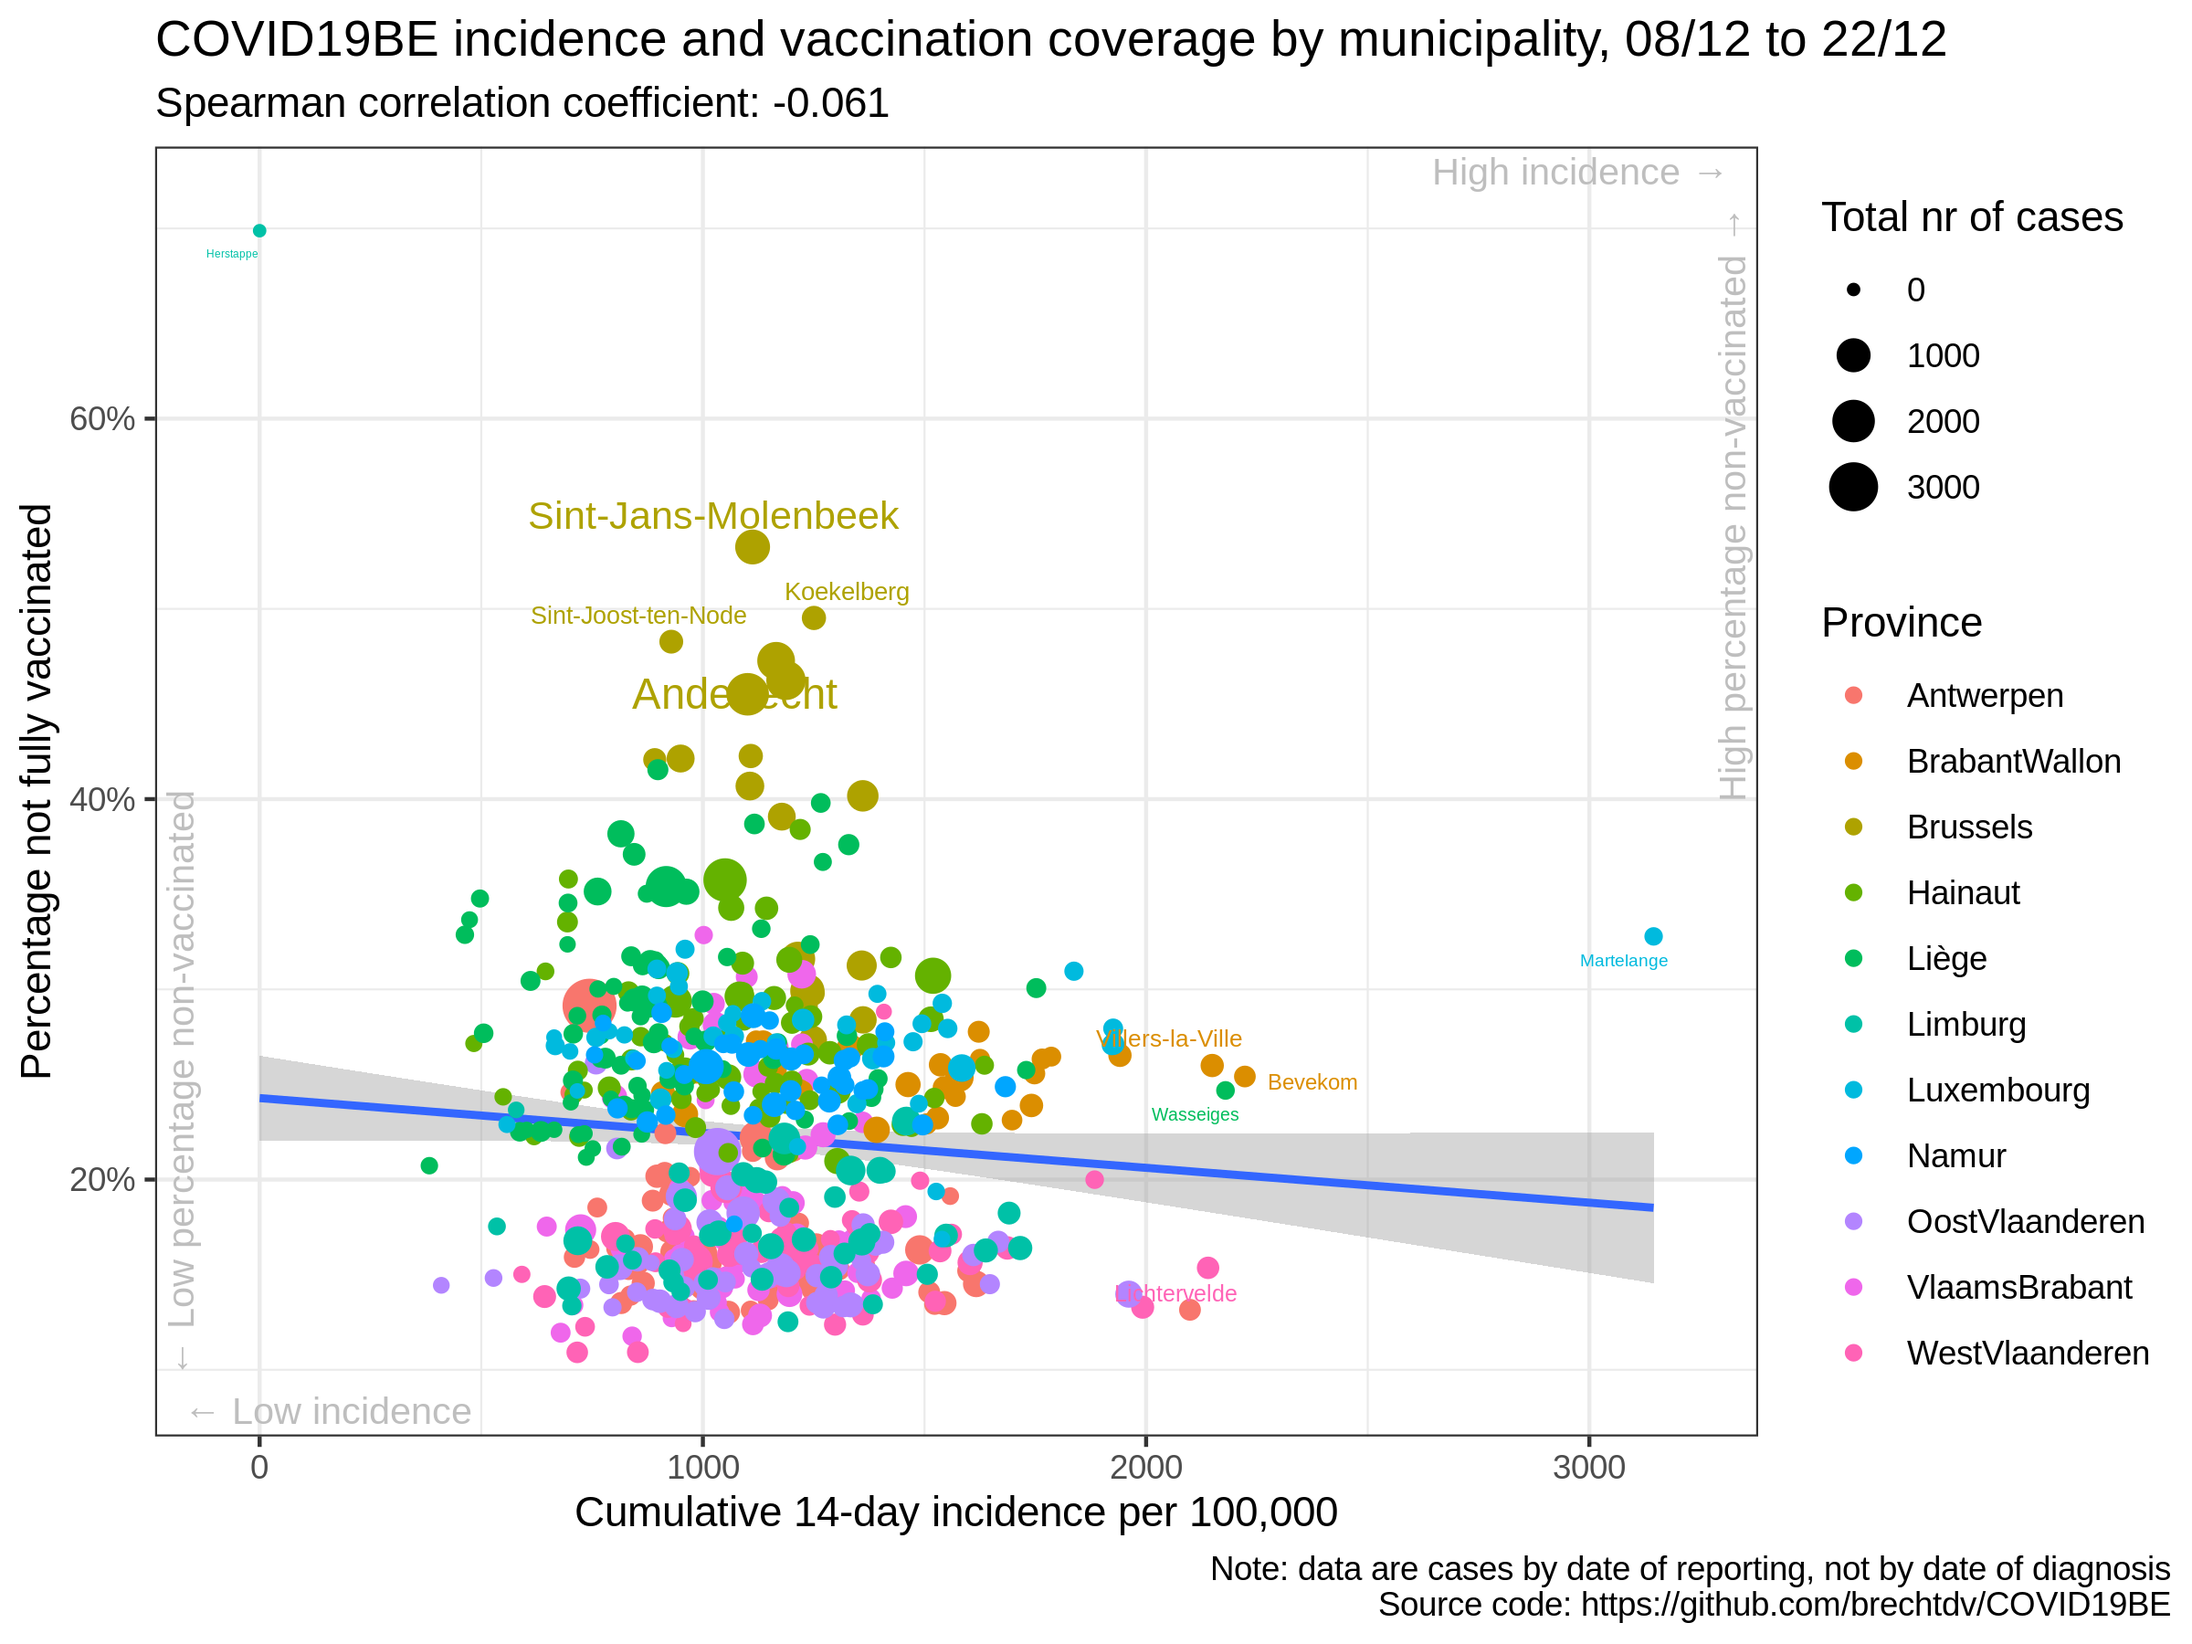
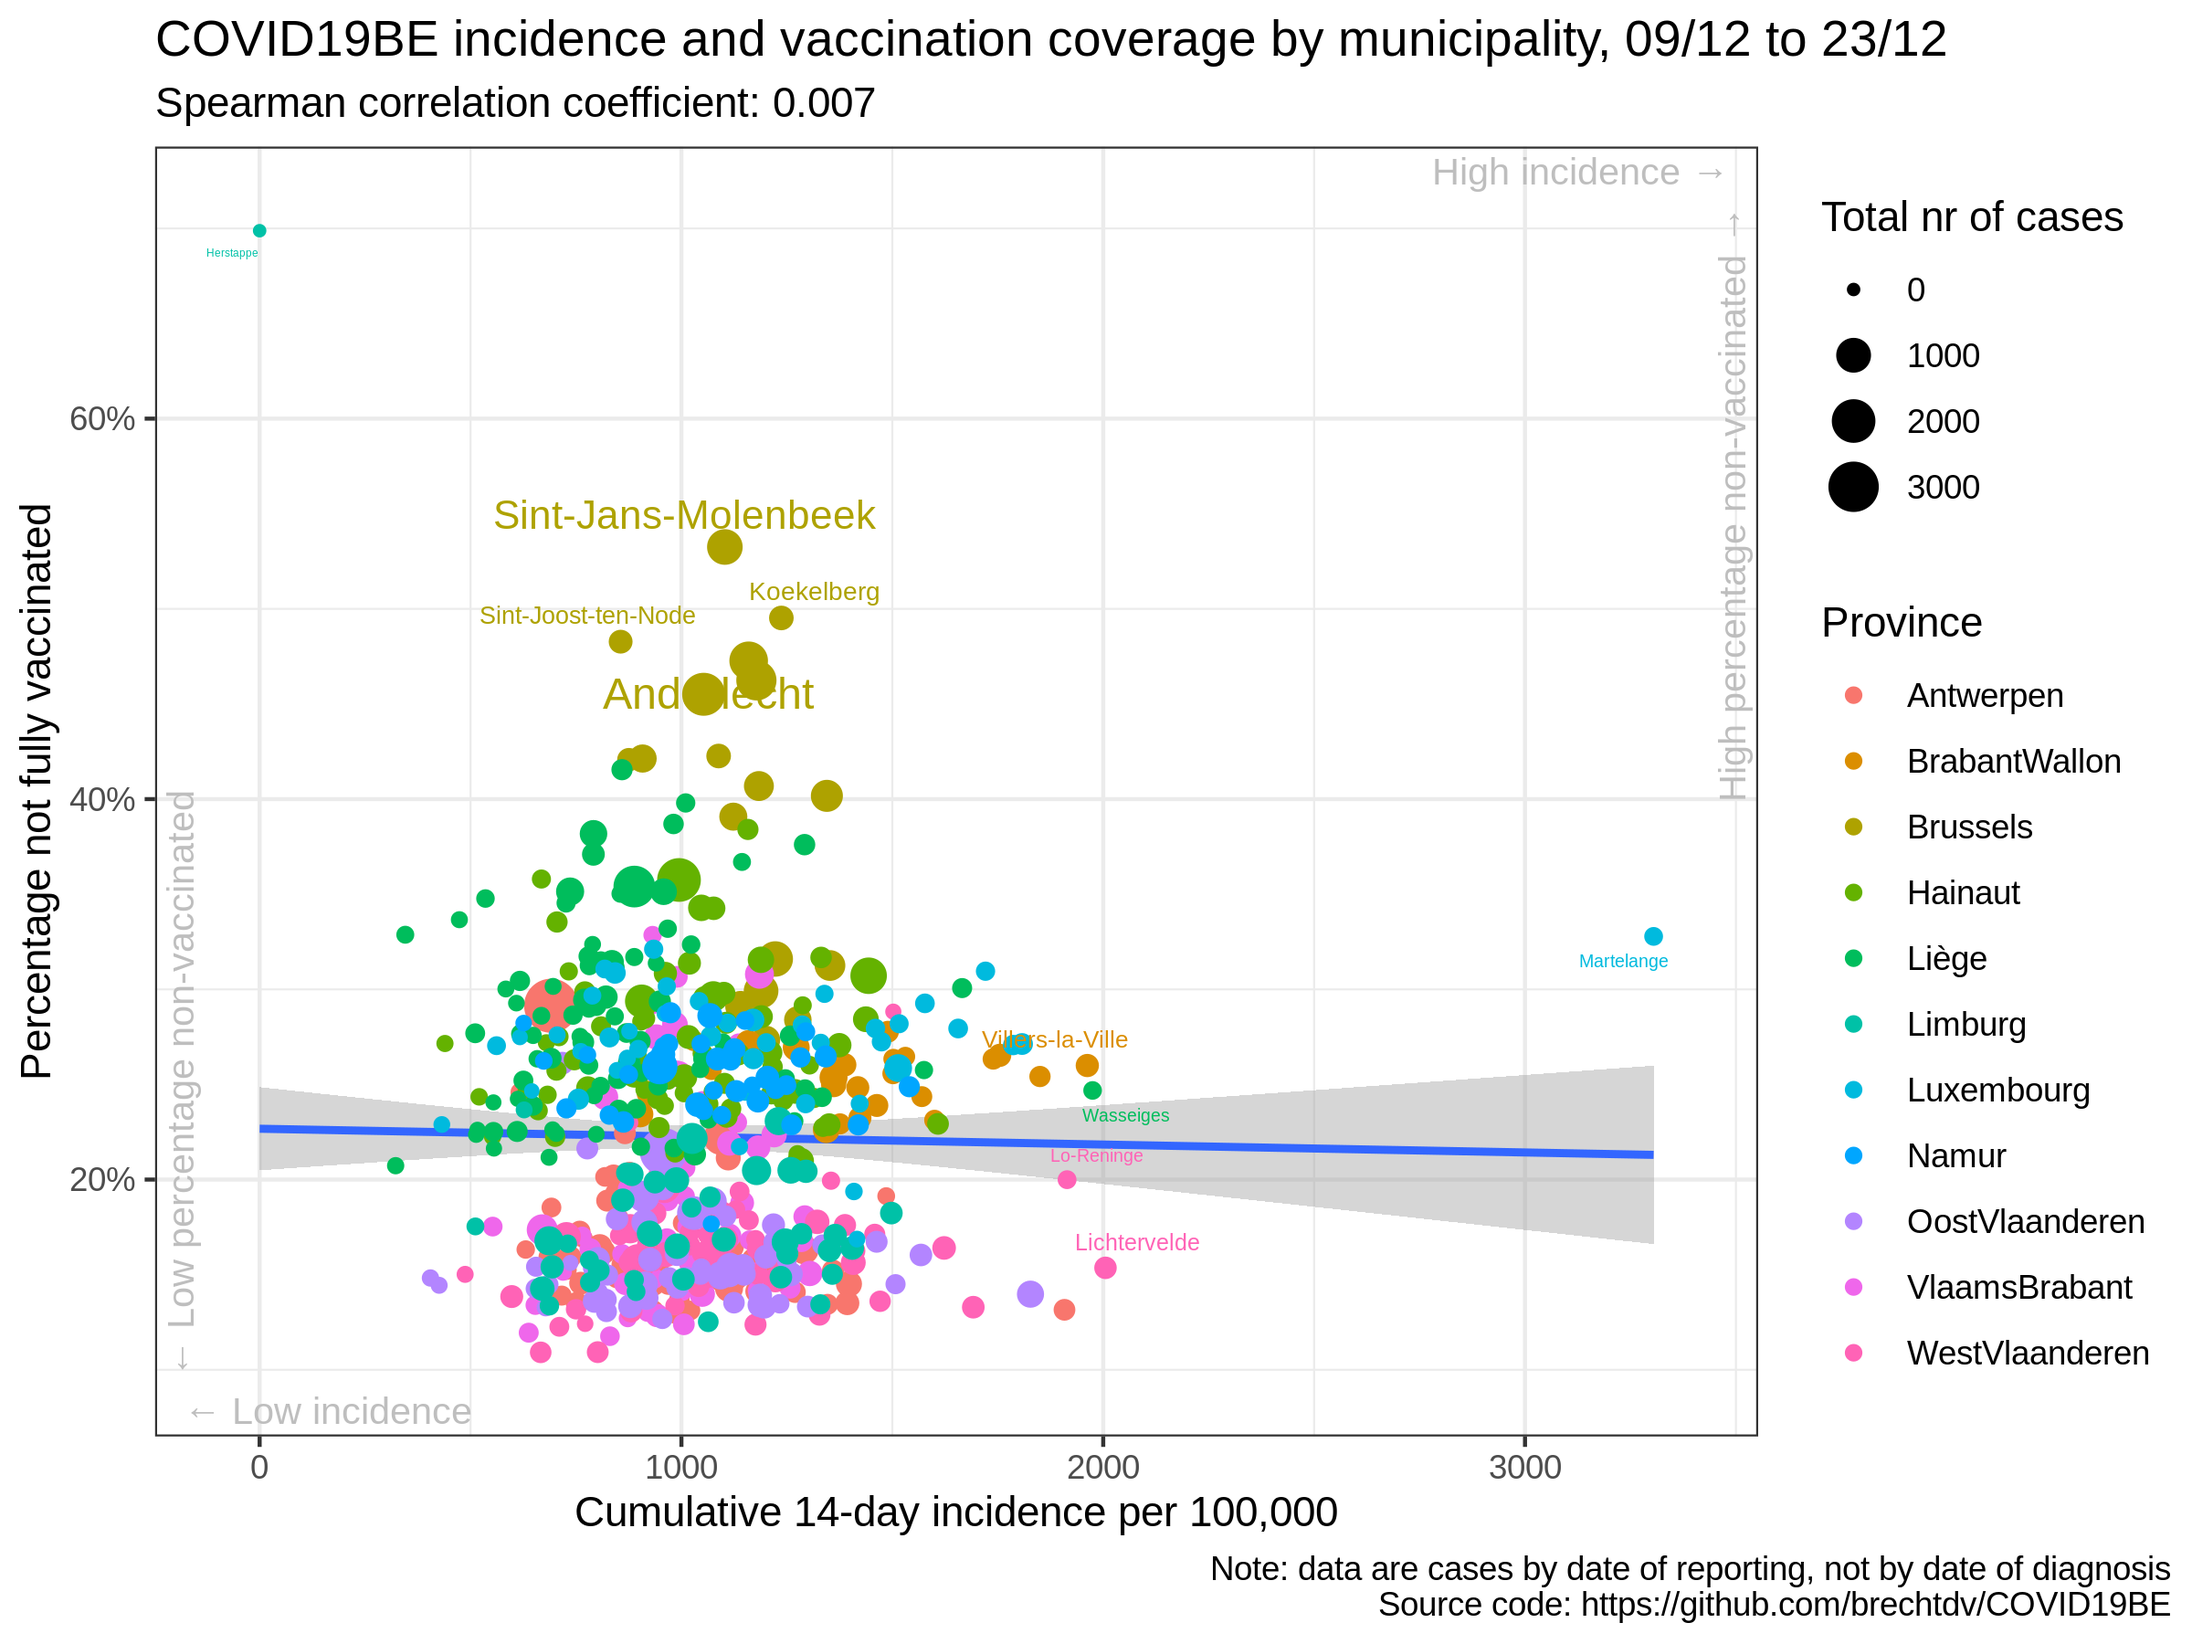
update situation

diff --git a/vaccination/README.md b/vaccination/README.md
@@ -13,18 +13,18 @@
 
 |                | estimate.rho | p.value |
 | :------------- | -----------: | ------: |
-| Antwerpen      |      \-0.316 |   0.008 |
-| BrabantWallon  |        0.167 |   0.403 |
-| Brussels       |      \-0.549 |   0.016 |
-| Hainaut        |      \-0.058 |   0.633 |
-| Liège          |        0.100 |   0.367 |
-| Limburg        |        0.091 |   0.567 |
-| Luxembourg     |        0.079 |   0.609 |
-| Namur          |      \-0.163 |   0.326 |
-| OostVlaanderen |        0.072 |   0.584 |
-| VlaamsBrabant  |        0.095 |   0.452 |
-| WestVlaanderen |        0.175 |   0.166 |
-| Belgium        |      \-0.061 |   0.140 |
+| Antwerpen      |      \-0.297 |   0.014 |
+| BrabantWallon  |        0.097 |   0.629 |
+| Brussels       |      \-0.474 |   0.042 |
+| Hainaut        |      \-0.044 |   0.716 |
+| Liège          |        0.098 |   0.373 |
+| Limburg        |        0.016 |   0.920 |
+| Luxembourg     |        0.090 |   0.559 |
+| Namur          |      \-0.117 |   0.482 |
+| OostVlaanderen |        0.067 |   0.610 |
+| VlaamsBrabant  |        0.247 |   0.047 |
+| WestVlaanderen |        0.244 |   0.053 |
+| Belgium        |        0.007 |   0.870 |
 
 ### Data source
 
